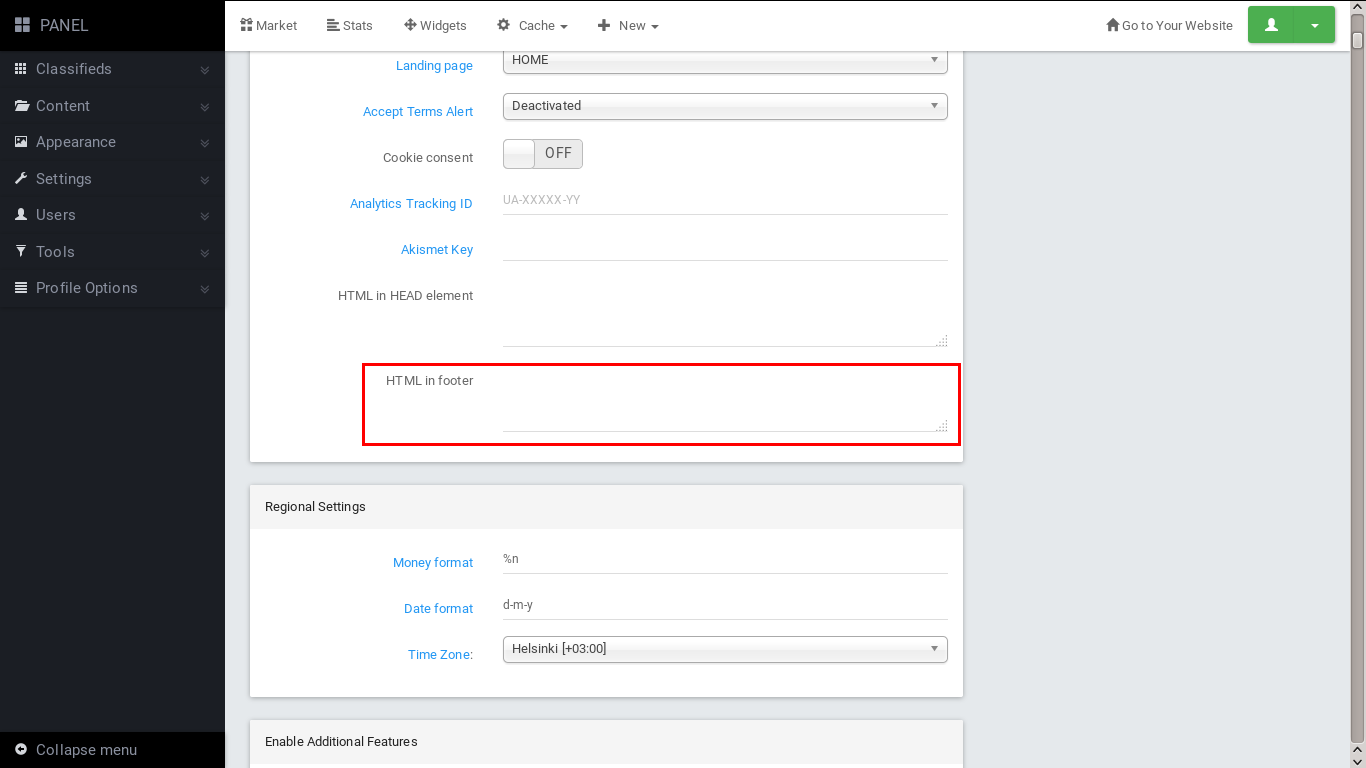
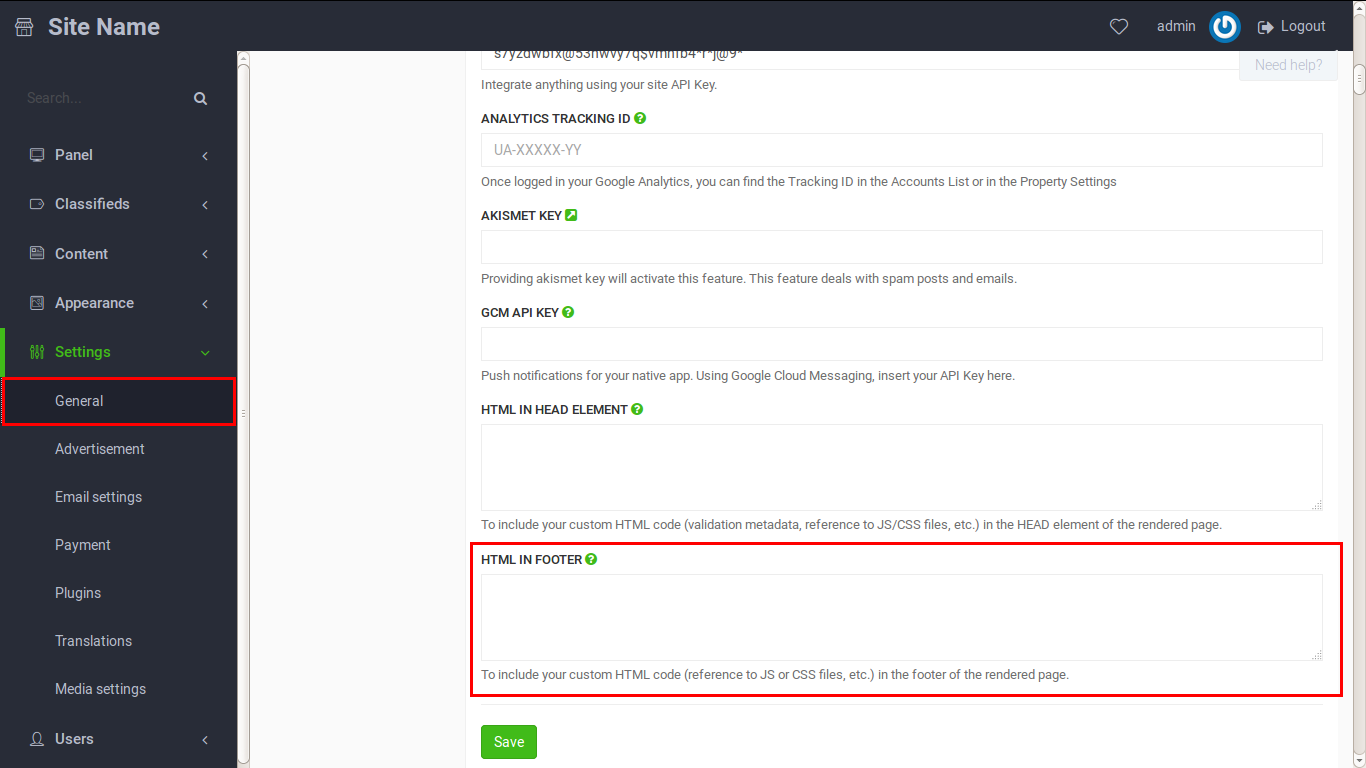
prepare docs for new panel

diff --git a/how-to-avoid-spam-in-my-site.md b/how-to-avoid-spam-in-my-site.md
@@ -18,8 +18,9 @@ Do you own a classifieds site and you are tired of getting ads like:
 * World class traditional healer, witchcraft charms and spells
 * Work while studying
 
-
+<a href="//open-classifieds.com/wp-content/uploads/2015/02/spammers-wanted.png" class="thumbnail gallery-item" data-gallery>
 ![spammers-wanted](//open-classifieds.com/wp-content/uploads/2015/02/spammers-wanted.png) 
+</a>
 
 <br>
 And lot worst stuff.... 
@@ -36,7 +37,9 @@ The best option is to moderate the ads. With this you are sure you don't get spa
 
 Go to the OC control panel and navigate to **Settings > General** > General site Settings. Set the Moderation option in Moderation On
 
-![moderation](//open-classifieds.com/wp-content/uploads/2015/02/moderation.png)
+<a href="//docs.yclas.com/images/spammers1.png" class="thumbnail gallery-item" data-gallery>
+![moderation](//docs.yclas.com/images/spammers1.png)
+</a>
 
 
 ### Black List
@@ -50,7 +53,9 @@ Next step is to activate Black List following [this]({{ site.baseurl }}/activate
 
 You can also activate Akismet entering your Akismet key
 
-![akismet](//open-classifieds.com/wp-content/uploads/2015/02/akismet.png) 
+<a href="//docs.yclas.com/images/spammers2.png" class="thumbnail gallery-item" data-gallery>
+![moderation](//docs.yclas.com/images/spammers2.png)
+</a>
 
 <br>
 You can find more information about Akismet and obtain an Akismet key following this link: <https://akismet.com/> 
@@ -60,9 +65,11 @@ its free to use but be aware of false positives.
 ### Captcha
 
 
-Now move to **Settings > Advertisement > Listing Options** set Captcha ON 
+Now move to **Settings > Advertisement > Publish Options** set Captcha ON 
 
-![captcha](//open-classifieds.com/wp-content/uploads/2015/02/captcha.jpg) 
+<a href="//docs.yclas.com/images/spammers3.png" class="thumbnail gallery-item" data-gallery>
+![moderation](//docs.yclas.com/images/spammers3.png)
+</a>
 
 <br>
 Or use the new reCaptcha read more [here]({{ site.baseurl }}/set-recaptcha-website).

diff --git a/activate-access-terms-alert.md b/activate-access-terms-alert.md
@@ -11,15 +11,21 @@ This feature creates window of **Access Terms**, to allow or deny user access to
 
 To activate this feature go to **Admin Panel**, and create new page. By clicking on **Content** > **Page** option, then a blue button **New**. If you are not sure on how to create new page, check [here]({{ site.baseurl }}/how_to_add_pages)!
 
-![Activate Access Term Alert](http://i1.wp.com/open-classifieds.com/wp-content/uploads/2013/10/Activate-Access-Term-Alert.png)
+<a href="//docs.yclas.com/images/access-terms.png" class="thumbnail gallery-item" data-gallery>
+![Activate Access Term Alert](//docs.yclas.com/images/access-terms.png)
+</a>
 
 After you created new page, go to **Settings > General**, and find the option **Accept Terms Alert**. Then in one of the following options should be your new page. Select it, and click on **Save** button.
 
-![Activate Access Terms Alert 2](http://open-classifieds.com/wp-content/uploads/2013/10/Activate-Access-Terms-Alert-2.png) 
+<a href="//docs.yclas.com/images/access-terms2.png" class="thumbnail gallery-item" data-gallery>
+![Activate Access Term Alert](//docs.yclas.com/images/access-terms2.png)
+</a>
 
 That's it, you activated **Access Terms Alert**. Now refresh your home page, and you should see following window.
 
 Once accepted, terms wont appear again. Only way is to **clean your cookies**.
 
+<a href="//open-classifieds.com/wp-content/uploads/2013/10/accept_alert_settings_window-1024x489.png" class="thumbnail gallery-item" data-gallery>
 ![accept_alert_settings_window](//open-classifieds.com/wp-content/uploads/2013/10/accept_alert_settings_window-1024x489.png)
+</a>
 

diff --git a/how-to-add-tracking-codes.md b/how-to-add-tracking-codes.md
@@ -23,7 +23,9 @@ Lastly, everybody trusts Google Analytics data. Currently it's in the use of aro
 2. Add your Google Analytics Tracking ID into the Analytics Tracking ID field. 
 3. Press SAVE. 
 
-![googleanalyticstrackingID](//open-classifieds.com/wp-content/uploads/2015/03/googleanalyticstrackingID.png)
+<a href="//docs.yclas.com/images/google-analytics1.png" class="thumbnail gallery-item" data-gallery>
+![googleanalyticstrackingID](//docs.yclas.com/images/google-analytics1.png)
+</a>
 
 You can change the content of the Analytics Tracking ID field whenever you want by following the same process. 
 
@@ -37,9 +39,13 @@ This will work if you need to add any other tracking code, if you have a code fr
 
 <br>
 
-![googleanalyticstrackingID2inFOOTER](//open-classifieds.com/wp-content/uploads/2015/03/googleanalyticstrackingID2inFOOTER.png) 
+<a href="//docs.yclas.com/images/google-analytics2.png" class="thumbnail gallery-item" data-gallery>
+![googleanalyticstrackingID](//docs.yclas.com/images/google-analytics2.png)
+</a>
 
 <br>
 
-![googleanalyticstrackingID1inHEADER](//open-classifieds.com/wp-content/uploads/2015/03/googleanalyticstrackingID1inHEADER.png)
+<a href="//docs.yclas.com/images/google-analytics3.png" class="thumbnail gallery-item" data-gallery>
+![googleanalyticstrackingID](//docs.yclas.com/images/google-analytics3.png)
+</a>
 

diff --git a/private-site.md b/private-site.md
@@ -19,14 +19,20 @@ Follow the steps above to make your site private:
 
 Now, if you logout this is what you should see:
 
+<a href="//docs.yclas.com/images/private-site.png" class="thumbnail gallery-item" data-gallery>
 ![private site]({{ site.baseurl }}/images/private-site.png)
+</a>
 
 + Registered users can login using the login form on the bottom of the page. 
 
 + Unregister users can request access to your site by clicking **Request Access** and filling the form with their Name and Email. An email with these information will be sent to the administrator in order to use it and create a new user (**Panel -> Users -> Users -> New**).
 
+<a href="//docs.yclas.com/images/private-site2.png" class="thumbnail gallery-item" data-gallery>
 ![private site2]({{ site.baseurl }}/images/private-site2.png)
+</a>
 
 + The content of the page that is displayed to unregistered users is editable. You can [**create a new page**](http://docs.yclas.com/how_to_add_pages/) through your panel, go to **Settings -> General**, choose this page on **Private Site landing page content** and click **Save**.
 
+<a href="//docs.yclas.com/images/private-site3.png" class="thumbnail gallery-item" data-gallery>
 ![private site3]({{ site.baseurl }}/images/private-site3.png)
+</a>

diff --git a/how-to-currency-format.md b/how-to-currency-format.md
@@ -9,9 +9,11 @@ One of the most commonly asked question by our users is how to deal with **curre
 
 ## How to do it
 
-You can go to **Settings** > **General** > **Regional Settings** and input your preferred price format exactly the way the currency is represented, as in USD for United States Dollars, EUR for Euro, PLN for Polish Zloty and so on. Once you press update then the currency will show next to each amount.
+You can go to **Settings** > **General** > **Regional** and input your preferred price format exactly the way the currency is represented, as in USD for United States Dollars, EUR for Euro, PLN for Polish Zloty and so on. Once you press update then the currency will show next to each amount.
 
-![How to set the currency format](//open-classifieds.com/wp-content/uploads/2013/08/How-to-set-the-currency-format.png)
+<a href="//docs.yclas.com/images/currency-format.png" class="thumbnail gallery-item" data-gallery>
+![How to set the currency format](//docs.yclas.com/images/currency-format.png)
+</a>
 
 ## List of currency formats
 

diff --git a/how-to-add-text-contact-page.md b/how-to-add-text-contact-page.md
@@ -16,9 +16,13 @@ To do this, just **follow these simple steps:**
 + **Create a new Page**. In the _description_ field, add the content you want to display on contact page. If you don't know how to create a new page, follow [this guide]({{ site.baseurl }}/how_to_add_pages).
 + On **Settings** -> **General**, **Contact page content**, choose this page.
 
+<a href="//docs.yclas.com/images/contact-page.png" class="thumbnail gallery-item" data-gallery>
 ![contact page 1](//docs.yclas.com/images/contact-page.png)
+</a>
 
 + Click **SAVE**.
 + Ready!
 
+<a href="//docs.yclas.com/images/contact-page1.png" class="thumbnail gallery-item" data-gallery>
 ![contact page 2](//docs.yclas.com/images/contact-page1.png)
+</a>

diff --git a/change-date-format.md b/change-date-format.md
@@ -18,5 +18,7 @@ In case you change it to an invalid form and you want to go back to default, our
 
 If you would like to **add hours/minutes/seconds**,you could use **d-m-y H-i-s** and for more options about that you can refer to **[PHP Date/Time format](http://php.net/manual/en/function.date.php)**.
 
-![How to change date format](//open-classifieds.com/wp-content/uploads/2014/03/How-to-change-date-format1.png)
+<a href="//docs.yclas.com/images/date-format.png" class="thumbnail gallery-item" data-gallery>
+![How to set the currency format](//docs.yclas.com/images/date-format.png)
+</a>
 

diff --git a/html-in-head-element.md b/html-in-head-element.md
@@ -16,7 +16,9 @@ Open Classifieds allows you to add HTML in HEAD element. You can use this featur
 3. On General Configuration section, find the field **HTML in HEAD element** and insert your HTML code there.
 4. Click **SAVE** at the bottom of the page.
 
+<a href="//docs.yclas.com/images/html-head.png" class="thumbnail gallery-item" data-gallery>
 ![html head element](//docs.yclas.com/images/html-head.png)
+</a>
 
 <br>
 **Related posts:**

diff --git a/html-in-footer.md b/html-in-footer.md
@@ -12,7 +12,9 @@ Footer element typically contains information about its containing element, like
 3. In General Configuration section, find the field **HTML in FOOTER** and insert your HTML code there.
 4. Click **SAVE** at the bottom of the page.
 
+<a href="//docs.yclas.com/images/html-footer.png" class="thumbnail gallery-item" data-gallery>
 ![html head element](//docs.yclas.com/images/html-footer.png)
+</a>
 
 <br>
 **Related posts:**

diff --git a/how-to-change-time-zone.md b/how-to-change-time-zone.md
@@ -16,7 +16,9 @@ To change the Time Zone, follow these steps:
 3. Press **Save** 
 
 <br>
-![timezone](//open-classifieds.com/wp-content/uploads/2015/03/timezone.png)
+<a href="//docs.yclas.com/images/timezone.png" class="thumbnail gallery-item" data-gallery>
+![How to set the currency format](//docs.yclas.com/images/timezone.png)
+</a>
 
 <br>
 **Related posts:**
